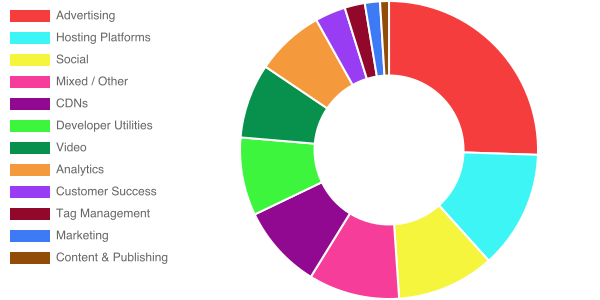
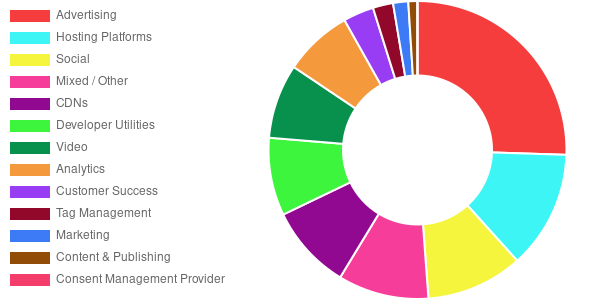
[#133] chore: refresh REAME.md following categories and entites updates

diff --git a/README.md b/README.md
@@ -27,6 +27,7 @@ This document is a summary of which third party scripts are most responsible for
         1.  [Content & Publishing](#content)
         1.  [CDNs](#cdn)
         1.  [Tag Management](#tag-manager)
+        1.  [Consent Management Provider](#consent-provider)
         1.  [Mixed / Other](#other)
     1.  [Third Parties by Total Impact](#by-total-impact)
 1.  [Future Work](#future-work)
@@ -271,24 +272,24 @@ These scripts measure or track users and their actions. There's a wide range in 
 
 These scripts enable social features.
 
-| Rank | Name                                                 | Usage     | Average Impact |
-| ---- | ---------------------------------------------------- | --------- | -------------- |
-| 1    | [AddToAny](https://www.addtoany.com/)                | 24,490    | 87 ms          |
-| 2    | [Pinterest](https://pinterest.com/)                  | 17,218    | 89 ms          |
-| 3    | [LinkedIn](https://www.linkedin.com/)                | 14,038    | 111 ms         |
-| 4    | [VK](https://vk.com/)                                | 13,473    | 121 ms         |
-| 5    | [Twitter](https://twitter.com)                       | 213,911   | 139 ms         |
-| 6    | Kakao                                                | 18,109    | 158 ms         |
-| 7    | [Instagram](https://www.instagram.com)               | 9,441     | 184 ms         |
-| 8    | [Yandex Share](https://yastatic.net/share2/share.js) | 24,181    | 184 ms         |
-| 9    | [Facebook](https://www.facebook.com)                 | 1,461,331 | 229 ms         |
-| 10   | [ShareThis](https://www.sharethis.com/)              | 40,133    | 234 ms         |
-| 11   | SocialShopWave                                       | 2,044     | 302 ms         |
-| 12   | [AddThis](http://www.addthis.com/)                   | 118,289   | 403 ms         |
-| 13   | [Disqus](http://disqus.com/)                         | 1,252     | 994 ms         |
-| 14   | LiveJournal                                          | 3,680     | 1327 ms        |
-| 15   | [PIXNET](https://www.pixnet.net/)                    | 15,434    | 1508 ms        |
-| 16   | [Tumblr](https://tumblr.com/)                        | 7,972     | 2048 ms        |
+| Rank | Name                                    | Usage     | Average Impact |
+| ---- | --------------------------------------- | --------- | -------------- |
+| 1    | [AddToAny](https://www.addtoany.com/)   | 24,490    | 87 ms          |
+| 2    | [TikTok](https://www.tiktok.com/en/)    | 2,429     | 88 ms          |
+| 3    | [Pinterest](https://pinterest.com/)     | 17,218    | 89 ms          |
+| 4    | [LinkedIn](https://www.linkedin.com/)   | 14,038    | 111 ms         |
+| 5    | [VK](https://vk.com/)                   | 13,473    | 121 ms         |
+| 6    | [Twitter](https://twitter.com)          | 213,911   | 139 ms         |
+| 7    | Kakao                                   | 18,109    | 158 ms         |
+| 8    | [Instagram](https://www.instagram.com)  | 9,441     | 184 ms         |
+| 9    | [Facebook](https://www.facebook.com)    | 1,461,331 | 229 ms         |
+| 10   | [ShareThis](https://www.sharethis.com/) | 40,133    | 234 ms         |
+| 11   | SocialShopWave                          | 2,044     | 302 ms         |
+| 12   | [AddThis](http://www.addthis.com/)      | 118,289   | 403 ms         |
+| 13   | [Disqus](http://disqus.com/)            | 1,252     | 994 ms         |
+| 14   | LiveJournal                             | 3,680     | 1327 ms        |
+| 15   | [PIXNET](https://www.pixnet.net/)       | 15,434    | 1508 ms        |
+| 16   | [Tumblr](https://tumblr.com/)           | 7,972     | 2048 ms        |
 
 <a name="video"></a>
 
@@ -322,34 +323,33 @@ These scripts are developer utilities (API clients, site monitoring, fraud detec
 | 8    | Riskified                                                                 | 1,074   | 106 ms         |
 | 9    | Affirm                                                                    | 2,500   | 113 ms         |
 | 10   | iubenda                                                                   | 12,781  | 124 ms         |
-| 11   | [Optanon](https://www.cookielaw.org/)                                     | 8,025   | 128 ms         |
-| 12   | Swiftype                                                                  | 1,544   | 135 ms         |
-| 13   | Seznam                                                                    | 1,654   | 135 ms         |
-| 14   | Bold Commerce                                                             | 13,095  | 144 ms         |
-| 15   | [Cookiebot](https://www.cookiebot.com/)                                   | 20,838  | 147 ms         |
-| 16   | Sift Science                                                              | 1,080   | 148 ms         |
-| 17   | [Other Google APIs/SDKs](https://developers.google.com/apis-explorer/#p/) | 580,415 | 168 ms         |
-| 18   | [Amazon Pay](https://pay.amazon.com)                                      | 5,751   | 169 ms         |
-| 19   | [TrustArc](https://www.trustarc.com/)                                     | 1,370   | 180 ms         |
-| 20   | MaxCDN Enterprise                                                         | 2,394   | 198 ms         |
-| 21   | GitHub                                                                    | 1,653   | 232 ms         |
-| 22   | Fraudlogix                                                                | 2,244   | 258 ms         |
-| 23   | Fastly                                                                    | 6,694   | 275 ms         |
-| 24   | [PayPal](https://paypal.com)                                              | 15,436  | 342 ms         |
-| 25   | [Stripe](https://stripe.com)                                              | 23,538  | 388 ms         |
-| 26   | [Cloudflare](https://www.cloudflare.com/website-optimization/)            | 53,319  | 465 ms         |
-| 27   | [Google Maps](https://www.google.com/maps)                                | 267,417 | 520 ms         |
-| 28   | [AppDynamics](https://www.appdynamics.com/)                               | 1,281   | 527 ms         |
-| 29   | Secomapp                                                                  | 2,150   | 546 ms         |
-| 30   | Bugsnag                                                                   | 8,686   | 569 ms         |
-| 31   | Rambler                                                                   | 7,698   | 691 ms         |
-| 32   | [GoDaddy](https://www.godaddy.com/)                                       | 6,687   | 700 ms         |
-| 33   | [Sentry](https://sentry.io/)                                              | 9,061   | 715 ms         |
-| 34   | Signyfyd                                                                  | 1,691   | 867 ms         |
-| 35   | Mapbox                                                                    | 5,206   | 877 ms         |
-| 36   | [Yandex APIs](https://yandex.ru/)                                         | 27,480  | 1080 ms        |
-| 37   | [POWr](https://www.powr.io)                                               | 16,407  | 1364 ms        |
-| 38   | Esri ArcGIS                                                               | 1,692   | 4750 ms        |
+| 11   | Swiftype                                                                  | 1,544   | 135 ms         |
+| 12   | Seznam                                                                    | 1,654   | 135 ms         |
+| 13   | Bold Commerce                                                             | 13,095  | 144 ms         |
+| 14   | [Cookiebot](https://www.cookiebot.com/)                                   | 20,838  | 147 ms         |
+| 15   | Sift Science                                                              | 1,080   | 148 ms         |
+| 16   | [Other Google APIs/SDKs](https://developers.google.com/apis-explorer/#p/) | 580,415 | 168 ms         |
+| 17   | [Amazon Pay](https://pay.amazon.com)                                      | 5,751   | 169 ms         |
+| 18   | [TrustArc](https://www.trustarc.com/)                                     | 1,370   | 180 ms         |
+| 19   | MaxCDN Enterprise                                                         | 2,394   | 198 ms         |
+| 20   | GitHub                                                                    | 1,653   | 232 ms         |
+| 21   | Fraudlogix                                                                | 2,244   | 258 ms         |
+| 22   | Fastly                                                                    | 6,694   | 275 ms         |
+| 23   | [PayPal](https://paypal.com)                                              | 15,436  | 342 ms         |
+| 24   | [Stripe](https://stripe.com)                                              | 23,538  | 388 ms         |
+| 25   | [Cloudflare](https://www.cloudflare.com/website-optimization/)            | 53,319  | 465 ms         |
+| 26   | [Google Maps](https://www.google.com/maps)                                | 267,417 | 520 ms         |
+| 27   | [AppDynamics](https://www.appdynamics.com/)                               | 1,281   | 527 ms         |
+| 28   | Secomapp                                                                  | 2,150   | 546 ms         |
+| 29   | Bugsnag                                                                   | 8,686   | 569 ms         |
+| 30   | Rambler                                                                   | 7,698   | 691 ms         |
+| 31   | [GoDaddy](https://www.godaddy.com/)                                       | 6,687   | 700 ms         |
+| 32   | [Sentry](https://sentry.io/)                                              | 9,061   | 715 ms         |
+| 33   | Signyfyd                                                                  | 1,691   | 867 ms         |
+| 34   | Mapbox                                                                    | 5,206   | 877 ms         |
+| 35   | [Yandex APIs](https://yandex.ru/)                                         | 27,480  | 1080 ms        |
+| 36   | [POWr](https://www.powr.io)                                               | 16,407  | 1364 ms        |
+| 37   | Esri ArcGIS                                                               | 1,692   | 4750 ms        |
 
 <a name="hosting"></a>
 
@@ -411,19 +411,20 @@ These scripts are from customer support/marketing providers that offer chat and 
 | 1    | SnapEngage                                       | 1,083  | 59 ms          |
 | 2    | Pure Chat                                        | 4,661  | 70 ms          |
 | 3    | Foursixty                                        | 1,411  | 81 ms          |
-| 4    | [LivePerson](https://www.liveperson.com/)        | 4,302  | 112 ms         |
-| 5    | iPerceptions                                     | 1,992  | 132 ms         |
-| 6    | Comm100                                          | 1,321  | 134 ms         |
-| 7    | [Intercom](https://www.intercom.com)             | 15,656 | 245 ms         |
-| 8    | [Help Scout](https://www.helpscout.net/)         | 2,183  | 258 ms         |
-| 9    | [Tidio Live Chat](https://www.tidiochat.com/en/) | 12,655 | 383 ms         |
-| 10   | [Tawk.to](https://www.tawk.to/)                  | 63,460 | 405 ms         |
-| 11   | [LiveChat](https://www.livechatinc.com/)         | 19,468 | 411 ms         |
-| 12   | [ContactAtOnce](https://www.contactatonce.com/)  | 3,247  | 491 ms         |
-| 13   | [Jivochat](https://www.jivochat.com/)            | 45,110 | 553 ms         |
-| 14   | [Olark](https://www.olark.com/)                  | 6,903  | 656 ms         |
-| 15   | [Smartsupp](https://www.smartsupp.com)           | 14,862 | 782 ms         |
-| 16   | [ZenDesk](https://zendesk.com/)                  | 69,488 | 892 ms         |
+| 4    | [Crisp](https://crisp.chat/)                     | 6,610  | 84 ms          |
+| 5    | [LivePerson](https://www.liveperson.com/)        | 4,302  | 112 ms         |
+| 6    | iPerceptions                                     | 1,992  | 132 ms         |
+| 7    | Comm100                                          | 1,321  | 134 ms         |
+| 8    | [Intercom](https://www.intercom.com)             | 15,656 | 245 ms         |
+| 9    | [Help Scout](https://www.helpscout.net/)         | 2,183  | 258 ms         |
+| 10   | [Tidio Live Chat](https://www.tidiochat.com/en/) | 12,655 | 383 ms         |
+| 11   | [Tawk.to](https://www.tawk.to/)                  | 63,460 | 405 ms         |
+| 12   | [LiveChat](https://www.livechat.com/)            | 19,468 | 411 ms         |
+| 13   | [ContactAtOnce](https://www.contactatonce.com/)  | 3,247  | 491 ms         |
+| 14   | [Jivochat](https://www.jivochat.com/)            | 45,110 | 553 ms         |
+| 15   | [Olark](https://www.olark.com/)                  | 6,903  | 656 ms         |
+| 16   | [Smartsupp](https://www.smartsupp.com)           | 14,862 | 782 ms         |
+| 17   | [ZenDesk](https://zendesk.com/)                  | 69,488 | 892 ms         |
 
 <a name="content"></a>
 
@@ -458,7 +459,7 @@ These are a mixture of publicly hosted open source libraries (e.g. jQuery) serve
 | ---- | ------------------------------------------------------------ | ------- | -------------- |
 | 1    | [Bootstrap CDN](https://www.bootstrapcdn.com/)               | 1,445   | 55 ms          |
 | 2    | [Adobe TypeKit](https://fonts.adobe.com/)                    | 18,274  | 94 ms          |
-| 3    | [Yandex CDN](https://yandex.ru/)                             | 1,572   | 184 ms         |
+| 3    | [Yandex CDN](https://yandex.ru/)                             | 25,753  | 184 ms         |
 | 4    | [JSDelivr CDN](https://www.jsdelivr.com/)                    | 97,319  | 193 ms         |
 | 5    | Microsoft Hosted Libs                                        | 4,941   | 204 ms         |
 | 6    | Monotype                                                     | 4,073   | 212 ms         |
@@ -486,6 +487,16 @@ These scripts tend to load lots of other scripts and initiate many tasks.
 | 5    | [Tealium](https://tealium.com/)                                               | 12,103  | 362 ms         |
 | 6    | [Ensighten](https://www.ensighten.com/)                                       | 3,761   | 444 ms         |
 
+<a name="consent-provider"></a>
+
+#### Consent Management Provider
+
+IAB Consent Management Providers are the 'Cookie Consent' popups used by many publishers. They're invoked for every page and sit on the critical path between a page loading and adverts being displayed.
+
+| Rank | Name                                  | Usage | Average Impact |
+| ---- | ------------------------------------- | ----- | -------------- |
+| 1    | [Optanon](https://www.cookielaw.org/) | 8,025 | 128 ms         |
+
 <a name="other"></a>
 
 #### Mixed / Other
@@ -496,7 +507,7 @@ These are miscellaneous scripts delivered via a shared origin with no precise ca
 | ---- | ------------------------------------------------- | --------- | -------------- |
 | 1    | ResponsiveVoice                                   | 1,241     | 70 ms          |
 | 2    | [Amazon Web Services](https://aws.amazon.com/s3/) | 38,265    | 161 ms         |
-| 3    | [All Other 3rd Parties](#by-category)             | 1,380,493 | 318 ms         |
+| 3    | [All Other 3rd Parties](#by-category)             | 1,370,568 | 319 ms         |
 | 4    | [Parking Crew](http://parkingcrew.net/)           | 5,147     | 326 ms         |
 | 5    | Heroku                                            | 2,002     | 607 ms         |
 | 6    | uLogin                                            | 2,316     | 1223 ms        |
@@ -510,7 +521,7 @@ This section highlights the entities responsible for the most script execution a
 | Name                                                                                      | Popularity | Total Impact | Average Impact |
 | ----------------------------------------------------------------------------------------- | ---------- | ------------ | -------------- |
 | [Google/Doubleclick Ads](https://www.doubleclickbygoogle.com/)                            | 680,948    | 991,570 s    | 1456 ms        |
-| [All Other 3rd Parties](#by-category)                                                     | 1,380,493  | 438,401 s    | 318 ms         |
+| [All Other 3rd Parties](#by-category)                                                     | 1,370,568  | 437,499 s    | 319 ms         |
 | [YouTube](https://youtube.com)                                                            | 408,326    | 346,661 s    | 849 ms         |
 | [Facebook](https://www.facebook.com)                                                      | 1,461,331  | 334,392 s    | 229 ms         |
 | [Wix](https://www.wix.com/)                                                               | 54,909     | 327,376 s    | 5962 ms        |
@@ -558,7 +569,7 @@ This section highlights the entities responsible for the most script execution a
 | [CreateJS CDN](http://code.createjs.com/)                                                 | 3,516      | 8,169 s      | 2323 ms        |
 | [Yandex Ads](https://yandex.com/adv/)                                                     | 25,906     | 8,113 s      | 313 ms         |
 | Esri ArcGIS                                                                               | 1,692      | 8,036 s      | 4750 ms        |
-| [LiveChat](https://www.livechatinc.com/)                                                  | 19,468     | 8,001 s      | 411 ms         |
+| [LiveChat](https://www.livechat.com/)                                                     | 19,468     | 8,001 s      | 411 ms         |
 | [Blogger](http://www.blogger.com/)                                                        | 23,674     | 7,742 s      | 327 ms         |
 | [Tray Commerce](https://www.tray.com.br/)                                                 | 3,173      | 7,388 s      | 2328 ms        |
 | [Sentry](https://sentry.io/)                                                              | 9,061      | 6,480 s      | 715 ms         |
@@ -583,11 +594,11 @@ This section highlights the entities responsible for the most script execution a
 | [Tidio Live Chat](https://www.tidiochat.com/en/)                                          | 12,655     | 4,849 s      | 383 ms         |
 | AB Tasty                                                                                  | 3,010      | 4,798 s      | 1594 ms        |
 | [Mailchimp](https://mailchimp.com/)                                                       | 23,373     | 4,766 s      | 204 ms         |
+| [Yandex CDN](https://yandex.ru/)                                                          | 25,753     | 4,744 s      | 184 ms         |
 | [MGID](https://www.mgid.com/)                                                             | 8,210      | 4,716 s      | 574 ms         |
 | [GoDaddy](https://www.godaddy.com/)                                                       | 6,687      | 4,678 s      | 700 ms         |
 | Mapbox                                                                                    | 5,206      | 4,568 s      | 877 ms         |
 | [Olark](https://www.olark.com/)                                                           | 6,903      | 4,528 s      | 656 ms         |
-| [Yandex Share](https://yastatic.net/share2/share.js)                                      | 24,181     | 4,455 s      | 184 ms         |
 | [SoundCloud](https://www.soundcloud.com/)                                                 | 4,464      | 4,404 s      | 986 ms         |
 | [Tealium](https://tealium.com/)                                                           | 12,103     | 4,385 s      | 362 ms         |
 | [Optimizely](https://www.optimizely.com/)                                                 | 19,583     | 4,375 s      | 223 ms         |
@@ -701,6 +712,7 @@ This section highlights the entities responsible for the most script execution a
 | ZEDO                                                                                      | 794        | 576 s        | 726 ms         |
 | [Mixpanel](https://mixpanel.com/)                                                         | 7,513      | 567 s        | 75 ms          |
 | [Help Scout](https://www.helpscout.net/)                                                  | 2,183      | 563 s        | 258 ms         |
+| [Crisp](https://crisp.chat/)                                                              | 6,610      | 558 s        | 84 ms          |
 | [Snowplow](https://snowplowanalytics.com/)                                                | 5,845      | 555 s        | 95 ms          |
 | TINT                                                                                      | 224        | 553 s        | 2470 ms        |
 | [Crazy Egg](https://www.crazyegg.com/)                                                    | 4,988      | 551 s        | 110 ms         |
@@ -708,7 +720,6 @@ This section highlights the entities responsible for the most script execution a
 | IBM Digital Analytics                                                                     | 806        | 546 s        | 677 ms         |
 | piano                                                                                     | 1,183      | 543 s        | 459 ms         |
 | [RD Station](https://www.rdstation.com/en/)                                               | 6,545      | 496 s        | 76 ms          |
-| [LivePerson](https://www.liveperson.com/)                                                 | 4,302      | 484 s        | 112 ms         |
 
 ## Future Work
 
